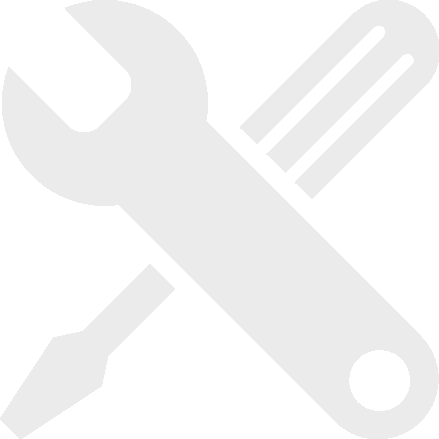
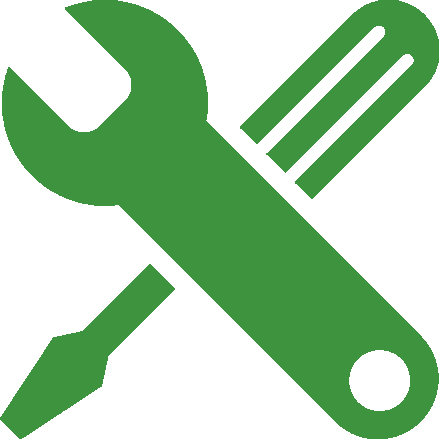
Ajust Layout
Ajustado imagens png para cor verde, e no codigo trocado o modo no-hover para deixxar imagem branca e modo hover verde.

diff --git a/index.html b/index.html
@@ -6,7 +6,7 @@
     <meta charset="UTF-8">
     <meta name="viewport" content="width=device-width, initial-scale=1">
     <link rel="stylesheet" href="css/styles.css"> <!-- Link para CSS-->
-    
+    <link href="https://fonts.googleapis.com/css?family=Anton" rel="stylesheet">
 </head>
 <!-- Plano de fundo implementado junto ao Body-->
 <body background="remote/bg.jpg">
@@ -51,23 +51,30 @@
 -->	
 <div class="main">
 <div id="container">
-<div id="tl"><p><a id="icon" href="https://remotedesktop.google.com/access">	<img id="icon" src="remote/minimalistchromeicon.png"></a></p></div>
-<div id="tc"><p><a id="icon" href="https://trello.com/b/sXkis7Er/tarefas">		<img id="icon" src="remote/trello.png" /></a></p></div>
-<div id="tr"><p><a id="icon" href="https://redmine.intelbras.com.br/my/page">	<img id="icon" src="remote/redmine.png"/></a></p></div>
-<div id="ml"><p><a id="icon" href="ftp://lcap:lcap@192.168.15.25/Programas_and_Drivers/Intelbras/"><img id="icon" src="remote/intelbrasicons.png"/></a></p></div>
-<div id="mc"><p><a id="icon" href="ftp://lcap:lcap@192.168.15.25/Programas_and_Drivers/Audio_and_Image_Tools/"><img id="icon" src="remote/imageaudioicon.png"/></a></p></div>
-<div id="mr"><p><a id="icon" href="ftp://lcap:lcap@192.168.15.25/Programas_and_Drivers/Network_Tools/"><img id="icon" src="remote/networkicon.png"/></a></p></div>
-<div id="bl"><p><a id="icon" href="ftp://lcap:lcap@192.168.15.25/Programas_and_Drivers/Remote_Access/"><img id="icon" src="remote/remoteicon.png"/></a></p></div>
-<div id="bc"><p><a id="icon" href="ftp://lcap:lcap@192.168.15.25/Programas_and_Drivers/Tools/"><img id="icon" src="remote/toolsicon.png"/></a></p></div>
-<div id="br"><p><a id="icon" href="ftp://lcap:lcap@192.168.15.25/Programas_and_Drivers/Zipper/"><img id="icon" src="remote/unzipicon.png" width="100" height="100" /></a></p></div>
+<div id="tl"><p><a id="icon" href="https://remotedesktop.google.com/access">	<img id="png" src="remote/minimalistchromeicon.png"></a></p></div>
+<div id="tc"><p><a id="icon" href="https://trello.com/b/sXkis7Er/tarefas">		<img id="png" src="remote/trello.png" /></a></p></div>
+<div id="tr"><p><a id="icon" href="https://redmine.intelbras.com.br/my/page">	<img id="png" src="remote/redmine.png"/></a></p></div>
+<div id="ml"><p><a id="icon" href="ftp://lcap:lcap@192.168.15.25/Programas_and_Drivers/Intelbras/"><img id="png" src="remote/intelbrasicons.png"/></a></p></div>
+<div id="mc"><p><a id="icon" href="ftp://lcap:lcap@192.168.15.25/Programas_and_Drivers/Audio_and_Image_Tools/"><img id="png" src="remote/imageaudioicon.png"/></a></p></div>
+<div id="mr"><p><a id="icon" href="ftp://lcap:lcap@192.168.15.25/Programas_and_Drivers/Network_Tools/"><img id="png" src="remote/networkicon.png"/></a></p></div>
+<div id="bl"><p><a id="icon" href="ftp://lcap:lcap@192.168.15.25/Programas_and_Drivers/Remote_Access/"><img id="png" src="remote/remoteicon.png"/></a></p></div>
+<div id="bc"><p><a id="icon" href="ftp://lcap:lcap@192.168.15.25/Programas_and_Drivers/Tools/"><img id="png" src="remote/toolsicon.png"/></a></p></div>
+<div id="br"><p><a id="icon" href="ftp://lcap:lcap@192.168.15.25/Programas_and_Drivers/Zipper/"><img id="png" src="remote/unzipicon.png" width="100" height="100" /></a></p></div>
 </div>
 </div>
 <!-- Inicio Footer -->
+				
+					
     <div class="footer">
-	        <img class="logo" src="remote/logolcap.png" width="134" height="45">
+		        <img class="logo" src="remote/logolcap.png" width="134" height="45">
+
          <svg version="1.1" xmlns="http://www.w3.org/2000/svg" width="200" height="50" viewBox="0 0 5408 1024"> <g id="icomoon-ignore"> </g> <path fill="#ffffff" d="M4323.749 232.095c-219.056 0-396.387 177.331-396.387 396.387s177.331 396.387 396.387 396.387c72.149 0 139.952-19.124 198.194-53.025v53.025h198.194v-396.387c0-219.056-177.331-396.387-396.387-396.387zM4521.942 628.482v1.739c-0.869 108.659-89.535 195.586-198.194 195.586-109.528 0-198.194-88.666-198.194-198.194s88.666-198.194 198.194-198.194c109.528 0.869 198.194 89.535 198.194 199.063v0z"> </path> <path fill="#ffffff" d="M1471.674 811.029c-19.993 9.562-42.594 14.778-66.065 14.778-85.188 0-153.861-68.672-153.861-153.861v0-242.526h150.384c0 0 25.209-86.927 25.209-198.194h-174.723v-231.226c-110.397 0-198.194 29.555-198.194 29.555s0 119.090 0 202.54v0 439.851c0 0 0 0 0 0 0 194.716 157.338 352.054 352.054 352.054 66.934 0 128.652-18.255 181.677-50.418-49.548-44.333-89.535-99.966-116.482-162.553z"></path> <path fill="#ffffff" d="M4012.55 282.513c-53.025-32.163-115.613-50.418-181.677-50.418-194.716 0-352.054 157.338-352.054 352.054 0 0 0 0 0 0v439.851h198.194v-440.72c0-85.188 68.672-153.861 153.861-153.861 23.47 0 46.071 5.216 66.065 14.778 26.947-61.718 66.065-117.351 115.613-161.684z"></path> <path fill="#ffffff" d="M217.317 91.273c0 60.011-48.648 108.659-108.659 108.659s-108.659-48.648-108.659-108.659c0-60.011 48.648-108.659 108.659-108.659s108.659 48.648 108.659 108.659z"></path> <path fill="#ffffff" d="M634.567 232.095c-194.716 0-352.054 157.338-352.054 352.054 0 0 0 0 0 0v439.851h198.194v-439.851c0-85.188 68.672-153.861 153.861-153.861s153.861 68.672 153.861 153.861v440.72h198.194v-440.72c0-194.716-157.338-352.054-352.054-352.054z"></path> <path fill="#ffffff" d="M9.562 1024h198.194v-791.905c-111.267 0-198.194 28.686-198.194 28.686v763.219z"></path> <path fill="#ffffff" d="M2343.552 1024h198.194v-1024c-108.659 0-194.716 27.817-198.194 29.555v994.445z"></path> <path fill="#ffffff" d="M3018.105 232.095c-72.149 0-139.952 19.124-198.194 53.025v-285.121c-107.789 0-194.716 27.817-197.324 29.555 0 0 0 598.058 0 598.927 0 219.056 177.331 396.387 396.387 396.387s396.387-177.331 396.387-396.387c-0.869-219.056-178.2-396.387-397.256-396.387zM3018.105 825.806c-109.528 0-198.194-88.666-198.194-198.194v0-1.739c0.869-108.659 89.535-196.455 198.194-196.455 109.528 0 198.194 88.666 198.194 198.194s-88.666 198.194-198.194 198.194z"></path> <path fill="#ffffff" d="M2283.572 721.494c-102.574-40.856-191.239-43.463-191.239-43.463-25.209 95.62-117.351 159.946-217.317 146.037-22.601-2.608-43.463-9.562-62.587-19.124l447.674-343.362c-55.633-119.090-167.769-207.756-307.722-226.010-217.317-28.686-415.511 124.306-444.197 340.754-28.686 217.317 124.306 415.511 340.754 444.197 199.932 26.947 385.087-107.789 434.635-299.029v0zM1703.769 602.404c13.908-108.659 113.874-185.154 222.533-170.377 22.601 2.608 43.463 9.562 62.587 19.124l-282.513 217.317c-4.346-21.732-5.216-43.463-2.608-66.065z"></path> <path fill="#ffffff" d="M5166.941 542.424h-130.39c-31.294 0-56.503-25.209-56.503-56.503s25.209-56.503 56.503-56.503h284.251c0.869-3.477 29.555-88.666 29.555-197.324 0 0-308.591 0-327.715 0-132.998 0-240.788 107.789-240.788 240.788s107.789 240.788 240.788 240.788h130.39c31.294 0 56.503 25.209 56.503 56.503s-25.209 56.503-56.503 56.503h-322.499c-0.869 3.477-29.555 88.666-29.555 197.324 0 0 360.747 0 365.963 0 132.998 0 240.788-107.789 240.788-240.788s-107.789-240.788-240.788-240.788z"></path> </svg>
 
         <img class="logo" src="remote/logolcap.png" width="134" height="45">
 		 </div>
+		 		
+
+
+    
 </body>
 </html>

diff --git a/css/styles.css b/css/styles.css
@@ -128,14 +128,23 @@ color: white;
 /* Footer */
 .footer {
 	text-align: center;
-	background: #333;
+  background-color: #4444446D;
 	position: fixed;
    left: 0;
    bottom: 0;
    width: 100%;
+   height: 71px;
    color: white;
    text-align: center;
 }
+
+.footer svg {
+margin-top: 13px;
+}
+
+
+
+
 
 /* Responsive layout - when the screen is less than 700px wide, make the two columns stack on top of each other instead of next to each other */
 @media screen and (max-width: 700px) {
@@ -172,6 +181,8 @@ color: white;
   filter: alpha(opacity=50); /* For IE8 and earlier */
 }
 
+
+
 /* tiles */
 
 
@@ -194,6 +205,22 @@ color: white;
   top:0%;
   bottom:0%;
   margin-bottom:8px;
+}
+
+#png {
+		  height:33.34%;
+  width:33.34%;	
+  position:static;
+  top:0%;
+  bottom:0%;
+  margin-bottom:8px;
+ -webkit-filter: grayscale(100%) 
+          brightness(1000%)
+          contrast(120%);
+}
+
+#png:hover {
+  -webkit-filter: none;
 }
 
 #tl{
